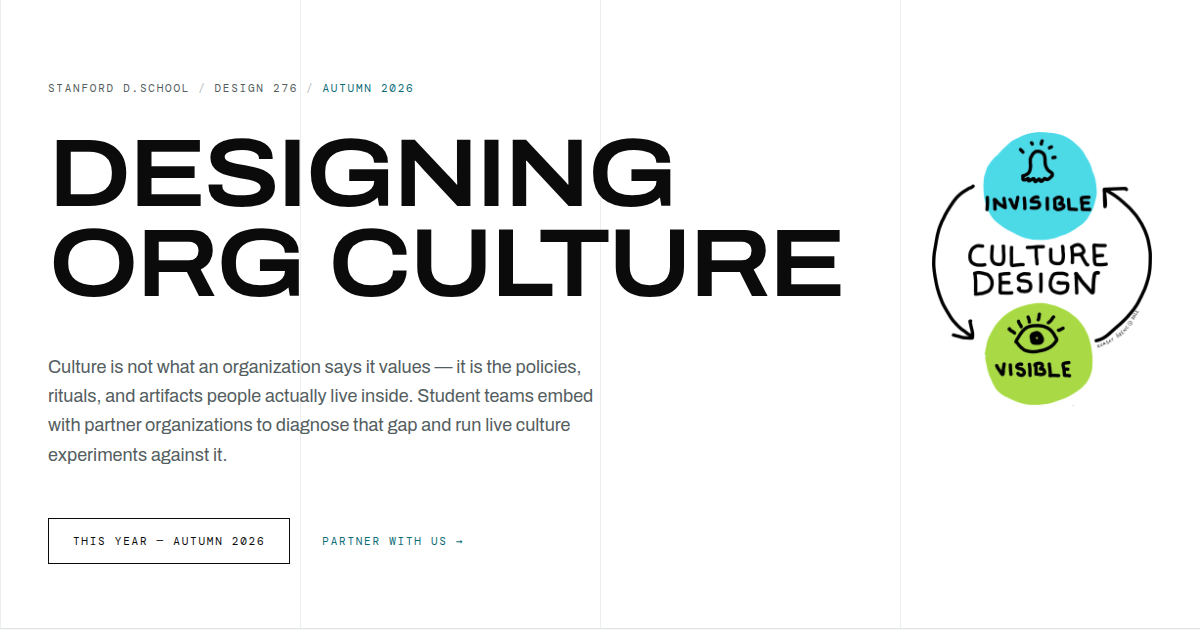
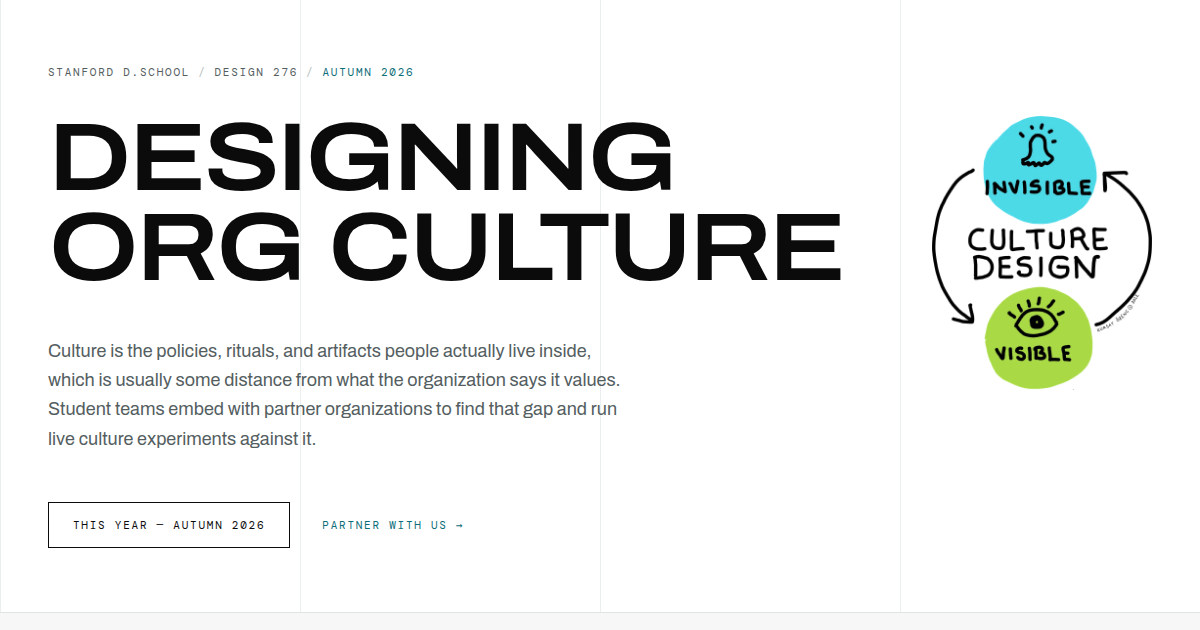
Hero fills the first screen
It was a fixed 679px tall regardless of viewport, so on anything taller
than about 730px the next band bled in above the fold — on a 982px
window, 303px of it. The hero now runs to exactly the fold with its
content centred, so the wordmark and the culture-design drawing have the
first screen to themselves.

Uses svh rather than vh so mobile browser chrome does not overshoot, and
subtracts a --header-h token since the header stacks on narrow widths.

Social card regenerated, since it is a screenshot of this hero.

diff --git a/src/app/page.js b/src/app/page.js
@@ -19,12 +19,14 @@ export default function Home() {
       <Header />
       <main className="flex-1">
         {/* ---- Hero: the grid, stated plainly, with one hand-mark across it ---- */}
-        <section className="relative overflow-hidden border-b border-line">
+        {/* Fills the first screen so the next band does not bleed above the fold.
+            svh rather than vh so mobile browser chrome does not overshoot. */}
+        <section className="relative flex min-h-[calc(100svh-var(--header-h))] items-center overflow-hidden border-b border-line">
           <div
             className="gridlines pointer-events-none absolute inset-0 opacity-60"
             aria-hidden="true"
           />
-          <div className="relative mx-auto grid max-w-6xl gap-10 px-6 pt-20 pb-16 min-[900px]:grid-cols-[1fr_220px] min-[900px]:items-start min-[900px]:gap-14">
+          <div className="relative mx-auto grid w-full max-w-6xl gap-10 px-6 py-16 min-[900px]:grid-cols-[1fr_220px] min-[900px]:items-start min-[900px]:gap-14">
             <div>
               <p className="spec text-ink-soft">
                 Stanford d.school

diff --git a/src/app/globals.css b/src/app/globals.css
@@ -11,6 +11,9 @@
   --ink-faint: #6c7679;   /* contrast-checked against paper for small labels */
   --line: #dfe4e5;
   --line-strong: #b9c2c4;
+  /* The sticky header's height, so the hero can fill exactly the rest of the
+     first screen. It stacks on narrow widths, hence the two values. */
+  --header-h: 92px;
   --cyan: #48d8e4;        /* graphic fill only — too light for text on white */
   --cyan-deep: #0c6d78;   /* the type/link-safe sibling */
   --cyan-wash: #eafafc;
@@ -24,6 +27,10 @@
   --visible: #a5ce38;
   --visible-deep: #4f6b0f;
   --paper-warm: #f7f7f7;  /* matches the paper the diagrams were drawn on */
+}
+
+@media (min-width: 640px) {
+  :root { --header-h: 50px; }
 }
 
 @theme inline {
